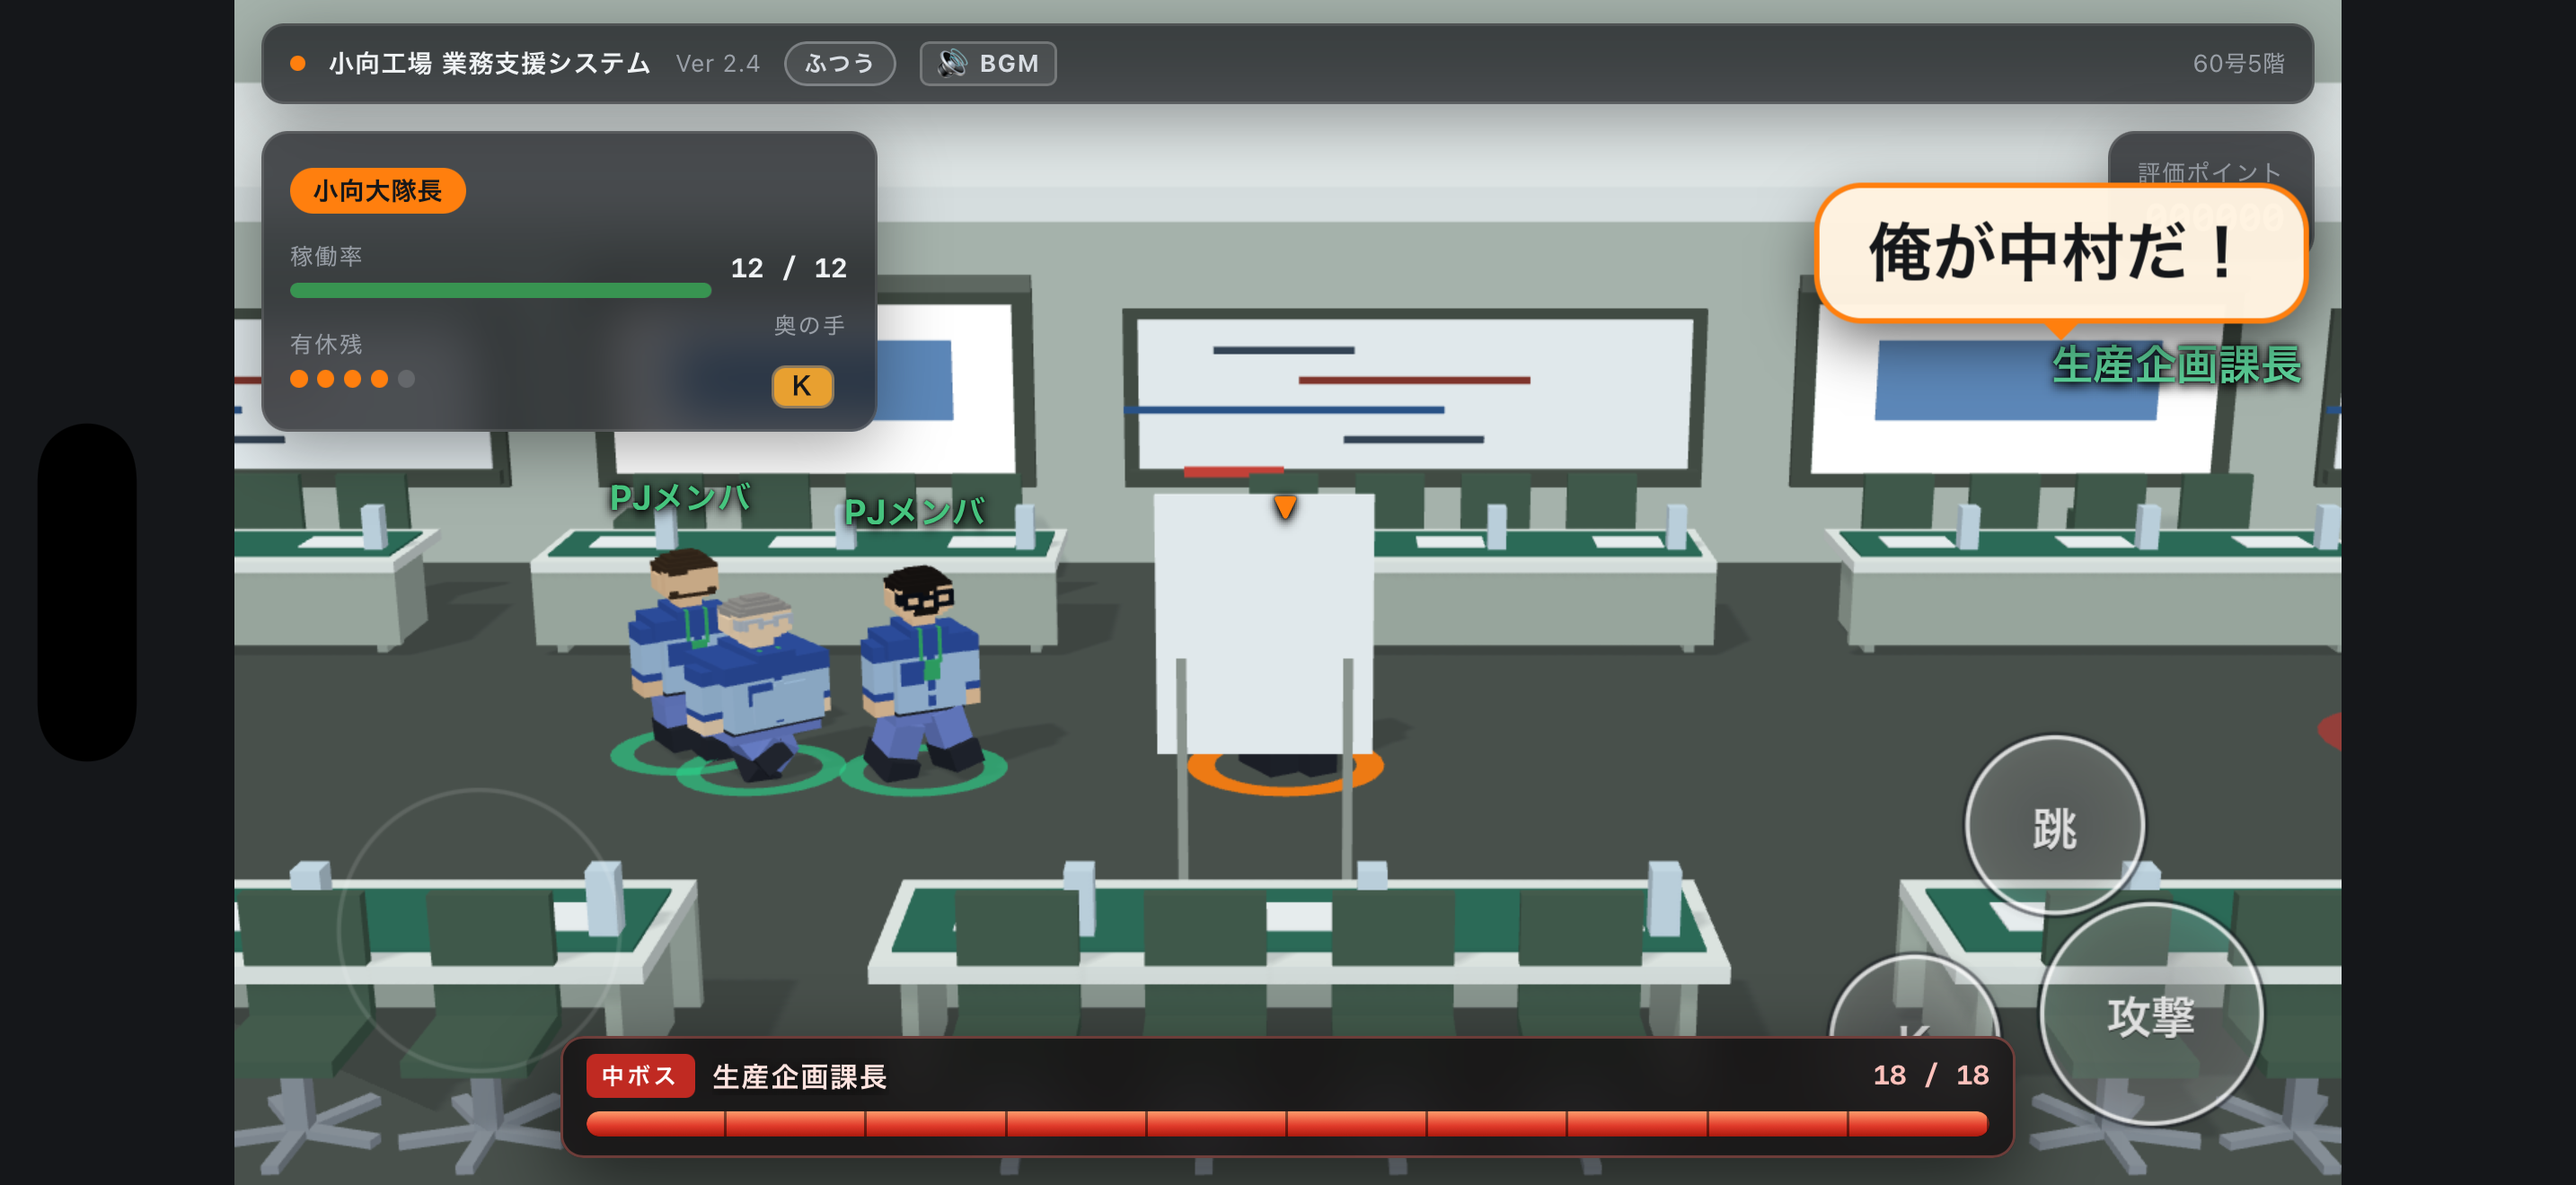
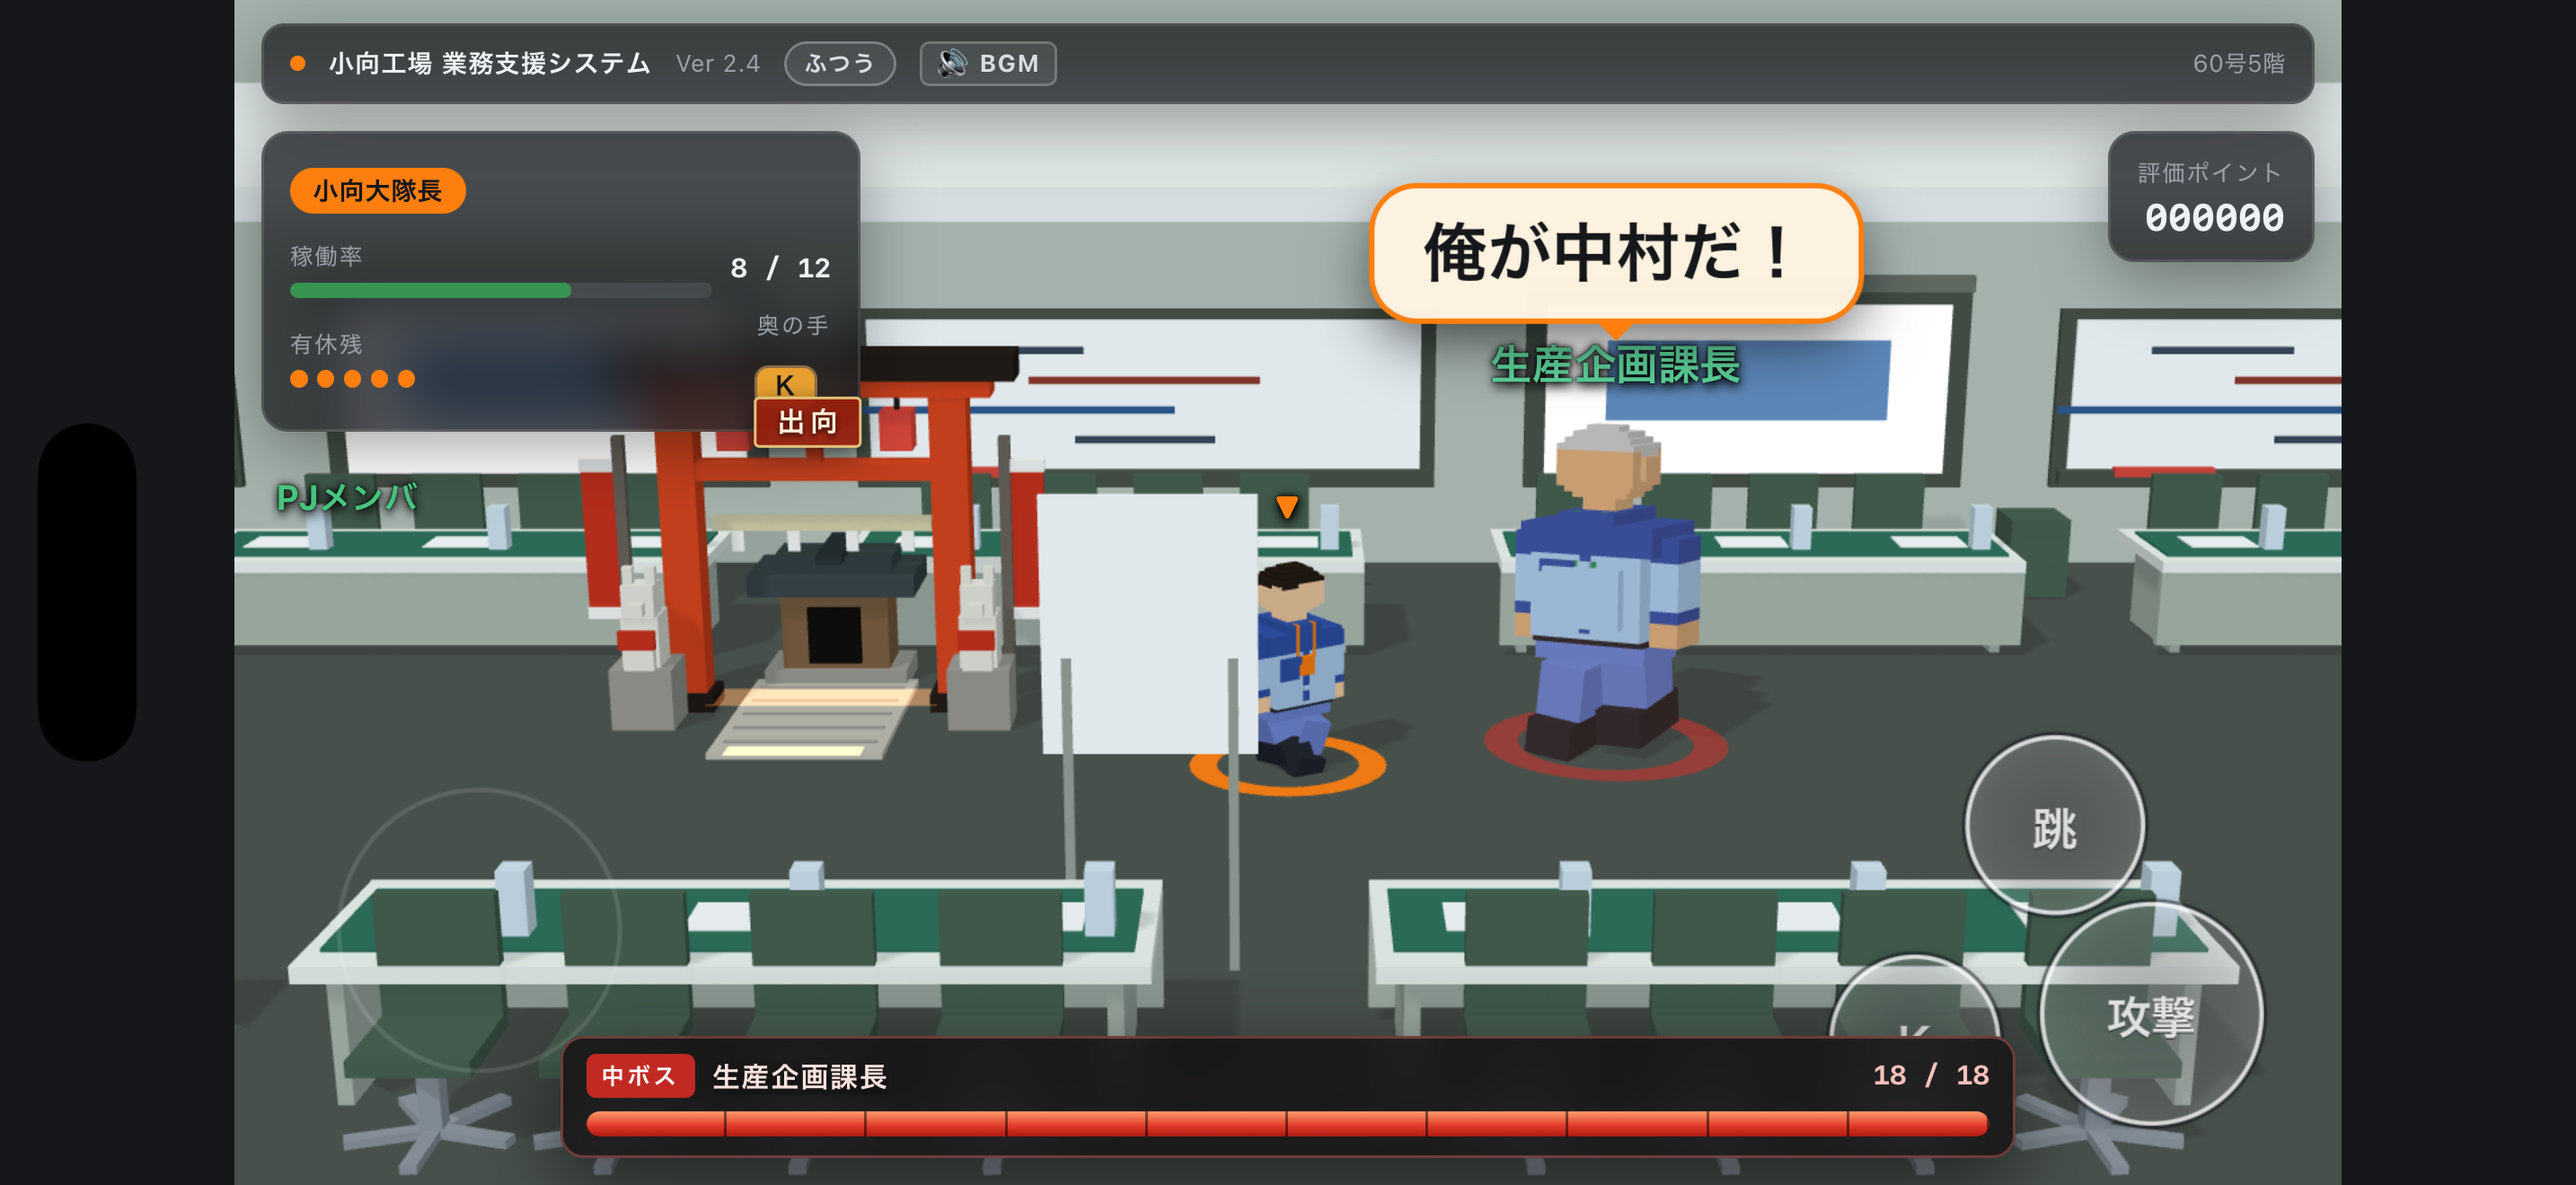
スクリーンショットの2枚を撮り直した（1.0.1）
公開後に2つ見つかった。
- 中ボスの一枚で、生産企画課長がフリップチャートの真後ろに立っていて
  足元のリングしか見えていなかった。ステージ3の板はゲーム座標 300/720/1140/1560 に
  あり、自機が1140付近だと必ず隠れる。1200 に寄せて撮り直した
- 業火の一枚に、隠しボスの名前が体力バーに出ていた。5人衆が出てから20秒で
  魔王が降りてくるので、3.2秒で止めて5人衆だけの画にした。名札は
  N村/K目/S田/H本/H野 で、魔王の名前はどこにも出ない

未記載だが実装済みの `shot=秒`（main3d.js:360）で画を止めると毎回同じ絵が撮れる。
踏んではいけない値ごと Design/appstore/screenshots/README.md に書いた。

公開済みの版は画像を差し替えられないので、版を 1.0.1／ビルド2 に上げた。
実行ファイルの中身は 1.0 と同じ。

diff --git a/Design/appstore/screenshots/README.md b/Design/appstore/screenshots/README.md
@@ -1,0 +1,33 @@
+# ストア用スクリーンショットの撮り方
+
+6.9インチ（2868×1320）。シミュレーター iPhone 17 Pro Max で撮って `sips -r -90` で横にする。
+
+```bash
+SIM=264BF619-05C9-481D-BA48-FA014B4398F0
+xcrun simctl launch "$SIM" com.anraku.komukai -game "<クエリ>"
+xcrun simctl io "$SIM" screenshot --type=png raw.png
+sips -r -90 raw.png --out out.png
+```
+
+`shot=秒` を付けると、その秒数ぶん進めて**画を止める**ので毎回同じ絵が撮れる。
+ios/CLAUDE.md のキー一覧に無いが実装済み（game3d/src/main3d.js:360）。
+**指定の約2倍進む**（1枚目と2枚目の両方で効くため）。`shot=1.6` ≒ 3.2 秒。
+
+| 枚 | クエリ | 何を見せるか |
+|---|---|---|
+| 1 | （なし） | タイトル・作業指示書・難易度 |
+| 2 | — | 道中の戦闘 |
+| 3 | `stage=3&demo=1200&shot=2.0` | 中ボス 生産企画課長 |
+| 4 | — | ボス 工場長（稲荷社） |
+| 5 | `stage=ura&demo=460&shot=1.6` | 業火の60号7階Aゾーン |
+| 6 | — | 本社 事業部フロア |
+
+## 踏んではいけない値
+
+- **`stage=3` は自機を x=1140 付近に置かないこと。** フリップチャートが
+  ゲーム座標 300 / 720 / 1140 / 1560 に立っていて、真後ろに入ると中ボスが完全に隠れる。
+  1.0 の 3_midboss.png がこれだった。1200 か 1240 が安全
+- **業火は `shot` を 10 秒ぶん以上にしないこと。** 5人衆の出現から 20 秒で魔王Y下が
+  降りてきて、体力バーに名前が出る。隠しボスなのでストアには出さない
+  （5人衆の名札は N村 / K目 / S田 / H本 / H野 で、魔王の名前は含まない）
+- バナーは場面で 2.8 秒・波で 2.6 秒。消したいならそれ以降まで進める
